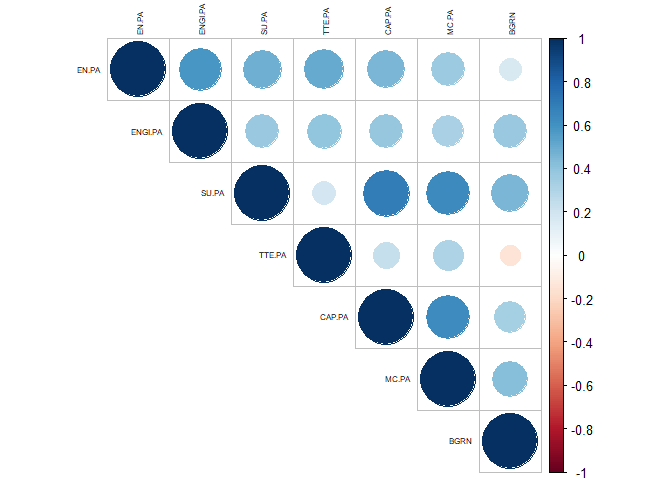
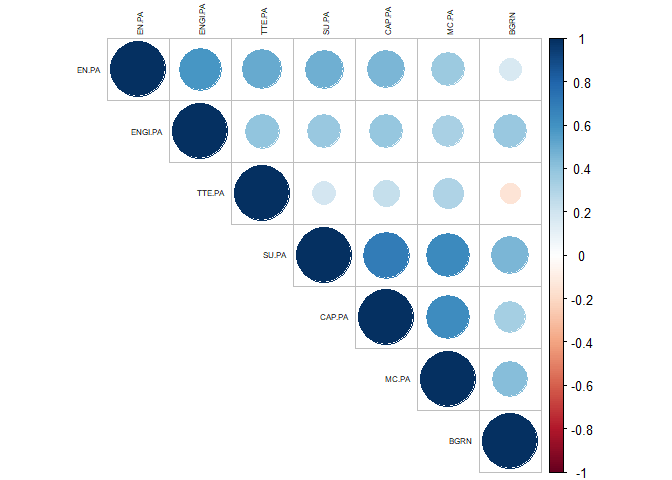
update

diff --git a/workshop2.md b/workshop2.md
@@ -1,5 +1,5 @@
 Workshop 2 - Multi-assets tactical allocation, Tangency Portfolio and
-Black-Litterman approach with ESG views
+Black-Litterman approach with ESG ratings
 ================
 Pierre Clauss
 October 2024
@@ -16,9 +16,9 @@ succeed the workshop.*
 
 I import the data with the package **tidyquant**, which allows to import
 financial data directly from Yahoo Finance. I import 6 equities from CAC
-40 and with a good balance between green and brown peculiarities:
-Bouygues, Engie, Schneider Electric, TotalEnergies, Capgemini and LVMH.
-I import also a green bond ETF proposed by BlackRock.
+40 and with a good balance between brown and green features: Bouygues,
+Engie, TotalEnergies on one side and Schneider Electric, Capgemini, LVMH
+on the other side. I import also a green bond ETF proposed by BlackRock.
 
 ``` r
 library(tidyverse)
@@ -27,8 +27,8 @@ library(tidyquant)
 symbols <-
   c("EN.PA",
     "ENGI.PA",
-    "SU.PA",
     "TTE.PA",
+    "SU.PA",
     "CAP.PA",
     "MC.PA",
     "BGRN")
@@ -44,8 +44,10 @@ The start date is November 2018.
 
 ### 1.2 Wrangling
 
-I need for the workshop only returns to do calculation on: so I shrink
-the data of workshop 2 to returns.
+For the workshop, I need only returns to do calculation on: so I
+determine monthly financial returns on stock prices. Returns are monthly
+returns because they are nearer to gaussian data than weekly and daily
+data.
 
 ``` r
 monthly_returns <- stock_prices %>%
@@ -67,8 +69,7 @@ table_returns <- monthly_returns %>%
 Then, the wrangling is quite simple here: data are tidy - each column is
 a variable (an equity) and each line is an observation (a month) - and
 data have been transformed in financial returns, which are used to model
-a portfolio. Returns are monthly returns because they are nearer to
-gaussian data than weekly and daily data.
+a portfolio.
 
 We can see below, thanks to the package **DataExplorer**, a summary of
 the observed data.
@@ -102,30 +103,6 @@ monthly_returns %>%
 
 ![](workshop2_files/figure-gfm/dataviz_1-1.png)<!-- -->
 
-``` r
-monthly_prices <- stock_prices %>%
-  group_by(symbol) %>%
-  tq_transmute(select = adjusted,
-               mutate_fun = to.monthly,
-               indexAt = "lastof")
-
-monthly_prices %>%
-  ggplot(aes(x = date, y = adjusted, color = symbol)) +
-  geom_line(size = 1) +
-  labs(
-    title = "Monthly Stock Prices",
-    x = "Date",
-    y = "Adjusted Prices",
-    color = ""
-  ) +
-  facet_wrap(~ symbol, ncol = 2, scales = "free_y") +
-  scale_y_continuous(labels = scales::dollar_format(suffix = "€", prefix = "")) +
-  theme_tq() +
-  scale_color_tq()
-```
-
-![](workshop2_files/figure-gfm/dataviz_1-2.png)<!-- -->
-
 Some statistics to sum up the distribution are shown below: I cannot
 observe for all returns symmetric data with a median and a mean which
 could be quite equal.
@@ -134,18 +111,18 @@ could be quite equal.
 summary(table_returns)
 ```
 
-    ##      EN.PA              ENGI.PA             SU.PA              TTE.PA         
-    ##  Min.   :-0.246900   Min.   :-0.37379   Min.   :-0.13394   Min.   :-0.130592  
-    ##  1st Qu.:-0.027360   1st Qu.:-0.02511   1st Qu.:-0.01467   1st Qu.:-0.041797  
-    ##  Median : 0.008089   Median : 0.01592   Median : 0.02562   Median : 0.003991  
-    ##  Mean   : 0.005297   Mean   : 0.01094   Mean   : 0.02385   Mean   : 0.010811  
-    ##  3rd Qu.: 0.046800   3rd Qu.: 0.05713   3rd Qu.: 0.06354   3rd Qu.: 0.050041  
-    ##  Max.   : 0.185790   Max.   : 0.19114   Max.   : 0.19167   Max.   : 0.387490  
+    ##      EN.PA              ENGI.PA             TTE.PA              SU.PA         
+    ##  Min.   :-0.246900   Min.   :-0.37379   Min.   :-0.130592   Min.   :-0.13394  
+    ##  1st Qu.:-0.027360   1st Qu.:-0.02511   1st Qu.:-0.041797   1st Qu.:-0.01467  
+    ##  Median : 0.008089   Median : 0.01592   Median : 0.003991   Median : 0.02562  
+    ##  Mean   : 0.005283   Mean   : 0.01097   Mean   : 0.010784   Mean   : 0.02384  
+    ##  3rd Qu.: 0.046800   3rd Qu.: 0.05713   3rd Qu.: 0.050041   3rd Qu.: 0.06354  
+    ##  Max.   : 0.185790   Max.   : 0.19114   Max.   : 0.387490   Max.   : 0.19167  
     ##      CAP.PA             MC.PA               BGRN          
-    ##  Min.   :-0.22395   Min.   :-0.09325   Min.   :-0.040008  
-    ##  1st Qu.:-0.04956   1st Qu.:-0.03553   1st Qu.:-0.007654  
-    ##  Median : 0.01391   Median : 0.01680   Median : 0.002721  
-    ##  Mean   : 0.01270   Mean   : 0.01562   Mean   : 0.001657  
+    ##  Min.   :-0.22395   Min.   :-0.09484   Min.   :-0.040008  
+    ##  1st Qu.:-0.04930   1st Qu.:-0.03553   1st Qu.:-0.007654  
+    ##  Median : 0.01391   Median : 0.01680   Median : 0.002722  
+    ##  Mean   : 0.01271   Mean   : 0.01560   Mean   : 0.001660  
     ##  3rd Qu.: 0.07458   3rd Qu.: 0.06135   3rd Qu.: 0.013709  
     ##  Max.   : 0.17309   Max.   : 0.20035   Max.   : 0.039630
 
@@ -250,7 +227,7 @@ monetary assets (null weight for this last asset in the TP).
 Before modelling, I separate the initial sample between a learning
 sample and a backtest sample to evaluate the performance of our
 modelling. I choose May 2023 as a separation date to backtest the
-strategy on the last 2 years of the sample.
+strategy on the last 1.5 year of the sample.
 
 ``` r
 end_date <- nrow(table_returns)
@@ -280,22 +257,23 @@ unbiased estimators of its weights. I assume that
 ![](workshop2_files/figure-gfm/TP-1.png)<!-- -->
 
 The realised return observed on the backtest sample of the portfolio
-constructed on the learning sample is equal to 11.65%.
+constructed on the learning sample is equal to 11.72%.
 
 I am going to improve this result thanks to a more robust statistical
-approach integrating economic predictions in the allocation.
+approach integrating ESG ratings in the allocation.
 
 #### 2.2.2 Tactical allocation for the Tangency Portfolio with Black-Litterman approach
 
 Tactical allocation is a process that deviates the strategic allocation
-thanks to new information: for instance, if I think that one index will
+thanks to new information: for instance, if I think that one equity will
 perform better in the near future, then I will increase its weight
 relative to the others.
 
 Black-Litterman approach is one of a quantitative methodology to
-integrate these predictions/views in a relevant way. This approach adds
-to economic predictions statistical uncertainty: the econometric
-approach is no more a plug-in approach but a decision-bayesian approach.
+integrate these predictions, views or ratings in a relevant way. This
+approach adds to predictions statistical uncertainty: the econometric
+approach to estimate portfolios is no more a plug-in approach but a
+decision-bayesian approach.
 
 The Black-Litterman returns are the following mixed estimates:
 
@@ -311,27 +289,32 @@ matrix of uncertainty associated to the economic views; we assume that
 diagonal matrix with diagonal elements equal to variances of assets
 returns.
 
-I use [Sustainalytics’ ESG risk
-assessment](https://www.sustainalytics.com/esg-data) which measures the
-risk faced by a company’s value due to environmental, social, and
-governance issues. The ESG rating measures risk on an absolute scale
-from 0 to 100. The lowest rating indicates that ESG risk is best
-managed. It is available since 2014 and published on Yahoo Finance since
-2018.
+Economic views here will be based on ESG ratings. I assume that the
+future performance of stocks could be influenced by their ESG ratings: a
+good ESG rating will lead to good performance, and a bad one will lead
+to poor performance.
 
-And, I transform the ratings in returns to obtain
+For this, I use [Sustainalytics’ ESG risk
+assessment](https://www.sustainalytics.com/esg-data) to obtain ESG
+ratings. These ratings measure the risk to which a company’s value is
+exposed due to environmental, social and governance issues. They assess
+the risk on an absolute scale from 0 to 100. The lowest score indicates
+that ESG risk is the best managed. They are available since 2014 and
+published on Yahoo Finance since 2018.
+
+Finally, I transform these ratings in returns to obtain
 ![Q](https://latex.codecogs.com/png.latex?Q "Q").
 
 ``` r
 # Example of parameters for BL approach
 note <- numeric(n)
-note[1] <- -2 # Bouygues negative rating 35
-note[2] <- -1 # Engie negative rating 30
-note[3] <- 1 # Schneider positive rating 11
-note[4] <- -1 # TotalEnergies negative rating 28
-note[5] <- 1 # Capgemini positive rating 11
-note[6] <- 1 # LVMH positive rating 12
-note[7] <- 1 # Green Bond positive rating
+note[1] <- -2 # Bouygues: negative rating 35
+note[2] <- -1 # Engie: negative rating 30
+note[3] <- -1 # TotalEnergies: negative rating 28
+note[4] <- 1 # Schneider Electric: positive rating 11
+note[5] <- 1 # Capgemini: positive rating 11
+note[6] <- 1 # LVMH: positive rating 12
+note[7] <- 1 # Green Bond: positive rating
 vol <- sqrt(diag(Sigma))
 theta <- 0.2
 Q <- mu + vol * note * theta
@@ -341,23 +324,23 @@ tau <- 0.5
 ![](workshop2_files/figure-gfm/BL-1.png)<!-- -->
 
 The realised return observed on the backtest sample of the BL portfolio
-constructed on the learning sample is equal to 12.36%.
+constructed on the learning sample is equal to 12.44%.
 
 I can compare it to the portfolio constructed directly with views and
 without uncertainty on the predictions. The realised return observed on
 the backtest sample of this portfolio constructed on the learning sample
-is equal to 11.13%. BL approach mitigates the return of this portfolio
-by integrating uncertainty and then less confidence in the views.
+is equal to 11.21%. BL approach integrates uncertainty and then less
+confidence in the views.
 
 ## To conclude the second workshop
 
 This workshop is the second of my course on Asset Management dedicated
 to multi-assets allocation and Tangency Portfolio. I present some
 improvements of the classical plug-in estimators thanks to the
-Black-Litterman approach and an integration of ESG views.
+Black-Litterman approach and an integration of ESG ratings.
 
-To go beyond, I advise to read the academic paper of Pastor, Stambaugh
-and Taylor [“Dissecting green
-returns”](https://www.nber.org/system/files/working_papers/w28940/w28940.pdf)
-where they show that green stocks do not insure outperformance relative
-to brown ones.
+To go further, I recommend reading the academic paper by Pastor,
+Stambaugh, and Taylor [“Dissecting green
+returns”](https://www.nber.org/system/files/working_papers/w28940/w28940.pdf),
+where they show that green stocks do not guarantee outperformance
+compared to brown stocks.

diff --git a/workshop1.md b/workshop1.md
@@ -220,18 +220,18 @@ summary(table_returns_first)
 
     ##      AI.PA              CS.PA              BNP.PA              EN.PA          
     ##  Min.   :-0.13454   Min.   :-0.39935   Min.   :-0.371703   Min.   :-0.246900  
-    ##  1st Qu.:-0.01770   1st Qu.:-0.03401   1st Qu.:-0.051054   1st Qu.:-0.035574  
-    ##  Median : 0.01178   Median : 0.01373   Median : 0.011469   Median : 0.005015  
-    ##  Mean   : 0.01013   Mean   : 0.01102   Mean   : 0.008206   Mean   : 0.005135  
-    ##  3rd Qu.: 0.03724   3rd Qu.: 0.05961   3rd Qu.: 0.066981   3rd Qu.: 0.051362  
-    ##  Max.   : 0.13924   Max.   : 0.42841   Max.   : 0.439122   Max.   : 0.268996  
+    ##  1st Qu.:-0.01749   1st Qu.:-0.03401   1st Qu.:-0.051054   1st Qu.:-0.035573  
+    ##  Median : 0.01178   Median : 0.01438   Median : 0.012538   Median : 0.005015  
+    ##  Mean   : 0.01029   Mean   : 0.01124   Mean   : 0.008602   Mean   : 0.005276  
+    ##  3rd Qu.: 0.03724   3rd Qu.: 0.05961   3rd Qu.: 0.067134   3rd Qu.: 0.051362  
+    ##  Max.   : 0.13924   Max.   : 0.42841   Max.   : 0.439123   Max.   : 0.268997  
     ##      CA.PA                BN.PA          
     ##  Min.   :-0.2430708   Min.   :-0.207393  
     ##  1st Qu.:-0.0448149   1st Qu.:-0.024753  
-    ##  Median : 0.0036579   Median : 0.005868  
-    ##  Mean   :-0.0002651   Mean   : 0.005074  
+    ##  Median : 0.0036578   Median : 0.005868  
+    ##  Mean   :-0.0002533   Mean   : 0.005128  
     ##  3rd Qu.: 0.0431890   3rd Qu.: 0.038877  
-    ##  Max.   : 0.1592890   Max.   : 0.152109
+    ##  Max.   : 0.1592891   Max.   : 0.152109
 
 I can go deeper thanks to distribution graphics: the non-parametric
 (kernel method) estimation of the distribution and QQ-plots.
@@ -364,10 +364,10 @@ obtain unbiased estimators of GMV weights.
 ![](workshop1_files/figure-gfm/gmv_empirical-1.png)<!-- -->
 
 The anticipated volatility of the portfolio constructed on the learning
-sample is equal to 11%.
+sample is equal to 11.41%.
 
 The realised volatility of the portfolio observed on the backtest sample
-is equal to 14%.
+is equal to 14.05%.
 
 I am going to improve these results thanks to a more robust statistical
 approach.
@@ -404,10 +404,10 @@ the diagonal residual covariance matrix determined for each asset
 ![](workshop1_files/figure-gfm/gmv_1factor-1.png)<!-- -->
 
 The anticipated volatility of the portfolio constructed on the learning
-sample is equal to 9%.
+sample is equal to 8.76%.
 
 The realised volatility of the portfolio observed on the backtest sample
-is equal to 12%.
+is equal to 12.44%.
 
 #### 2.2.3 GMV portfolio with factorial modelling (3 factors)
 
@@ -430,10 +430,10 @@ the diagonal residual covariance matrix determined for each asset
 ![](workshop1_files/figure-gfm/gmv_3factors-1.png)<!-- -->
 
 The anticipated volatility of the portfolio constructed on the learning
-sample is equal to 10%.
+sample is equal to 9.72%.
 
 The realised volatility of the portfolio observed on the backtest sample
-is equal to 14%.
+is equal to 14.02%.
 
 ## To conclude the first workshop
 

diff --git a/README.md b/README.md
@@ -14,4 +14,3 @@ Before the first workshop, each student has to follow these 3 steps:
   1. download R base from [R project](https://rstudio.com/products/rstudio/download/) (step 1 of the web link),
 2. download RStudio from [RStudio](https://rstudio.com/products/rstudio/download/) (step 2 of the web link),
 3. download the packages __tidyverse__, __tidyquant__, __DataExplorer__, __corrplot__ with the function `install.packages(c("tidyverse", "tidyquant", "DataExplorer", "corrplot"))`.
-
